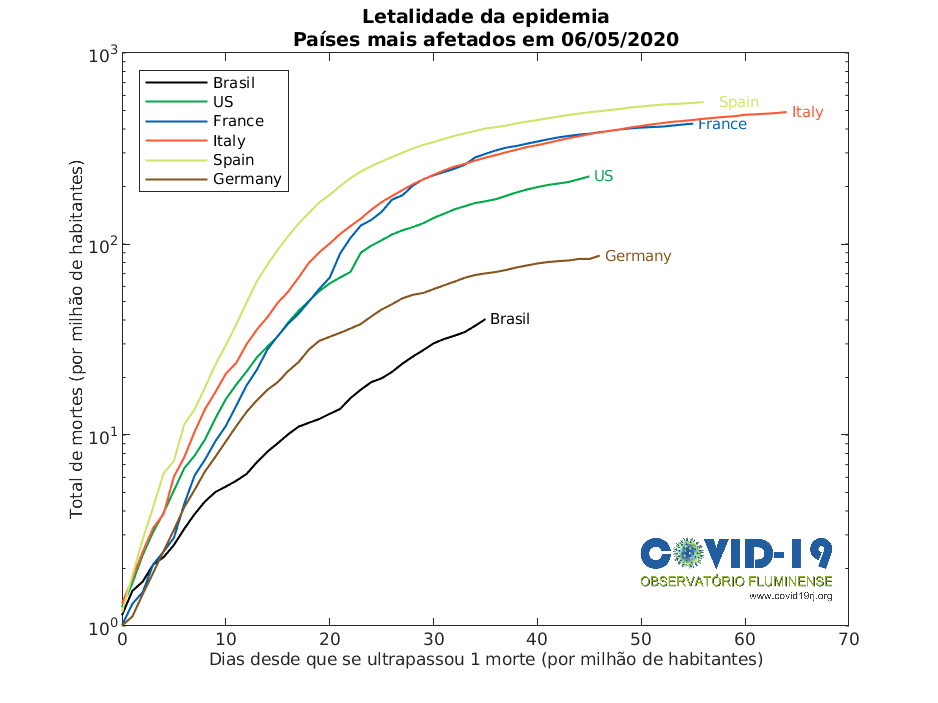
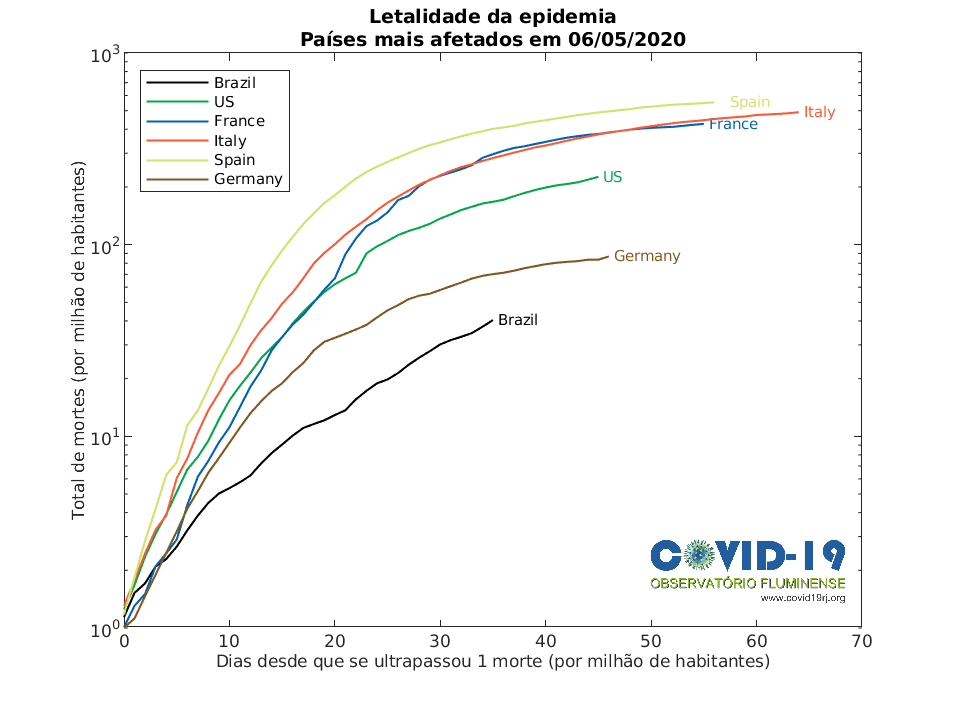
Add files via upload

diff --git a/Monitoramento/Paises/covid_mundo.m b/Monitoramento/Paises/covid_mundo.m
@@ -340,10 +340,10 @@ figure (1);
 [n1,n2] = size(BR_deaths);
 n=n1;
 days_state = 0:1:n-1;
-figBR=semilogy(days_state,BR_deaths(:,4),'DisplayName','Brasil')
+figBR=semilogy(days_state,BR_deaths(:,4),'DisplayName','Brazil')
 hold on;
 set(figBR,'LineWidth', 1,"color",colorBR,'Linestyle',lineBR);
-text (n-1, BR_deaths(n,4), [' Brasil'],'FontSize',fonte_estados,"color",colorBR)
+text (n-1, BR_deaths(n,4), [' Brazil'],'FontSize',fonte_estados,"color",colorBR)
 
 [n1,n2] = size(US_deaths);
 n=n1;
@@ -427,10 +427,10 @@ figure (2);
 [n1,n2] = size(BR_cases);
 n=n1;
 days_state = 0:1:n-1;
-figBR=semilogy(days_state,BR_cases(:,2),'DisplayName','Brasil')
+figBR=semilogy(days_state,BR_cases(:,2),'DisplayName','Brazil')
 hold on;
 set(figBR,'LineWidth', 1,"color",colorBR,'Linestyle',lineBR)
-text (n-1, BR_cases(n,2), [' Brasil'],'FontSize',fonte_estados,"color",colorBR);
+text (n-1, BR_cases(n,2), [' Brazil'],'FontSize',fonte_estados,"color",colorBR);
 
 [n1,n2] = size(US_cases);
 n=n1;
@@ -511,10 +511,10 @@ close(figure(2));
 %Plotar novas mortes X total de mortes (por milhao de hab.)
 figure (3);
 
-figBR=loglog(BR_per_million_week(:,4),BR_per_million_week(:,3),'DisplayName','Brasil')
+figBR=loglog(BR_per_million_week(:,4),BR_per_million_week(:,3),'DisplayName','Brazil')
 hold on;
 set(figBR,'LineWidth', 1,"color",colorBR,'Linestyle',lineBR)
-text (BR_per_million_week(D,4), BR_per_million_week(D,3), [' BR'],'FontSize',fonte_estados,"color",colorBR);
+text (BR_per_million_week(D,4), BR_per_million_week(D,3), [' Brazil'],'FontSize',fonte_estados,"color",colorBR);
 
 figUS=loglog(US_per_million_week(:,4),US_per_million_week(:,3),'DisplayName','US')
 hold on;
@@ -582,10 +582,10 @@ close(figure(3));
 figure (4);
 
 
-figBR=loglog(BR_per_million_week(:,2),BR_per_million_week(:,1),'DisplayName','Brasil')
+figBR=loglog(BR_per_million_week(:,2),BR_per_million_week(:,1),'DisplayName','Brazil')
 hold on;
 set(figBR,'LineWidth', 1,"color",colorBR,'Linestyle',lineBR)
-text (BR_per_million_week(D,2), BR_per_million_week(D,1), [' Brasil'],'FontSize',fonte_estados,"color",colorBR);
+text (BR_per_million_week(D,2), BR_per_million_week(D,1), [' Brazil'],'FontSize',fonte_estados,"color",colorBR);
 
 figUS=loglog(US_per_million_week(:,2),US_per_million_week(:,1),'DisplayName','US')
 hold on;
